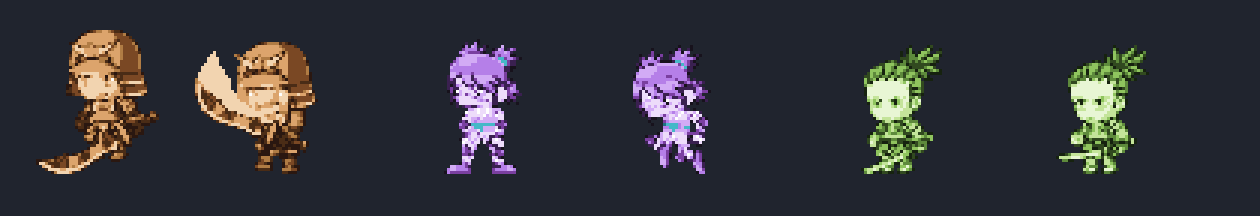
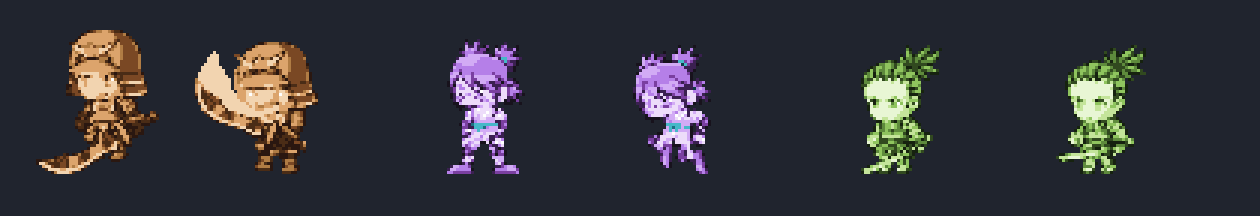
fix: corpses land on the floor and clear away quickly
ON THE GROUND. The collapse now interpolates the corpse's FEET from where it
died to the surface underneath it. The first version sank the sprite a fixed
seven pixels below the feet it had been standing on, which buries a lying body
in the ground it is supposed to be lying on -- and did nothing whatever for a
body killed in the AIR. A diving sentry or a leaping rusher cut down mid-flight
lay down in the air it happened to be occupying, which is the one place a corpse
cannot be. It now settles onto whatever is below it: the alley floor, a cover
block, an upper walkway. Over a pit there is no answer, so it keeps falling and
drops out of sight rather than pretending to land on nothing.

THE DEATH FRAME WAS WRONG, and aspect ratio says so without opening the file: a
body on the ground is WIDE and SHORT. The death animations are full ten-frame
sequences and their content aspect reports exactly where the body lands --
SamuraiHeavy 0.90 -> 0.58 -> 1.61, SamuraiLight 0.75 -> 0.66 -> 1.74, Ninja Girl
0.59 -> 1.51 and then settles. The first pass used frame 6 for both samurai,
which is 0.79 and 1.12: barely tipped over, so the corpse read as standing up.
Picked by measurement now, like the walk phases.

AND IT CLEARS AWAY. 0.58s/0.46s down to 0.40s/0.30s, with the fade starting at
55% of the window instead of 66%. A corpse that lingers is a prop, and this
alley is meant to be moved through.

The landing dust moved with it: spawned at the surface the body came to rest on,
[…]

diff --git a/frontend/index.html b/frontend/index.html
@@ -369,8 +369,9 @@ const IMPACT_TIME = 2 / 60;
 
    A blade takes longer to go down than a thrown star does, because the blow is
    heavier and the cut has to be read. */
-const CORPSE_BLADE = 0.58, CORPSE_SHURIKEN = 0.46;
-const CORPSE_LAND = 0.42;        // fraction of the window spent falling
+const CORPSE_BLADE = 0.40, CORPSE_SHURIKEN = 0.30;
+const CORPSE_LAND = 0.55;        // fraction of the window spent falling
+const CORPSE_FADE = 0.55;        // ...and the fraction after which it goes
 const CUT_HOLD = 5 / 60;         // the cut line's bright frames
 
 const DEATH_HOLD = 0.12, DEATH_FADE = 0.33, DEATH_TIME = 1.05;
@@ -4770,6 +4771,22 @@ function vaultAirborne(e) {
    which is the difference between debris and confetti. Absent, it falls back to
    "away from the player", which is right for anything that kills without
    having a direction of its own. */
+/* THE SURFACE A CORPSE COMES TO REST ON.
+   First solid row at or below the feet, in the body's own column. A body killed
+   standing is already on it; a body killed in the AIR -- a diving sentry, a
+   leaping rusher, anything mid-vault -- was left hanging wherever it happened
+   to be when it died, which is the one place a corpse cannot be.
+
+   Over a pit there is no answer, and the caller keeps the kill position so the
+   body drops out of sight instead of pretending to land on nothing. */
+function groundUnder(e) {
+  const tx = Math.max(0, Math.min(COLS - 1, Math.floor((e.x + e.w / 2) / TILE)));
+  for (let r = Math.floor((e.y + e.h) / TILE); r < ROWS; r++) {
+    if (solidAt(tx, r)) return r * TILE;
+  }
+  return null;
+}
+
 function killEnemy(e, silent, dirHint) {
   const blade = !!silent;
   const dir = dirHint ? (dirHint > 0 ? 1 : -1)
@@ -4782,6 +4799,11 @@ function killEnemy(e, silent, dirHint) {
   e.killDir = dir;
   e.killCut = blade ? CUT_HOLD : 0;
   e.dust = false;
+  // Where it died, and where it ends up. The collapse interpolates between
+  // them, so a body killed in mid-air falls to the floor rather than lying
+  // down in the air it was occupying.
+  e.killFeet = e.y + e.h;
+  e.restFeet = groundUnder(e);
   kills++;
   score += SCORE_KILL;
 
@@ -5687,7 +5709,11 @@ function update(dt) {
          different world depending on whether anyone was looking. */
       if (!e.dust && e.dyingMax && e.dying <= e.dyingMax * (1 - CORPSE_LAND)) {
         e.dust = true;
-        spawnBurst(e.x + e.w / 2, e.y + e.h - 1, 5,
+        // At the surface it came to rest on, which is not where it died if it
+        // died in the air.
+        const dy = (e.restFeet === null || e.restFeet === undefined)
+          ? e.y + e.h : e.restFeet;
+        spawnBurst(e.x + e.w / 2, dy - 1, 5,
                    ["#B6AC9A", "#8E8676", "#6A6458"], 55, 0.3);
       }
       continue;
@@ -7182,13 +7208,22 @@ function drawEntities() {
       /* THE COLLAPSE. `p` runs 0 to 1 across the dying window; the body falls
          over the first CORPSE_LAND of it and then lies there fading.
 
-         Sink and slide are eased differently on purpose: the fall decelerates
-         (it is landing) while the slide carries on at a decaying rate (it is
-         sliding). Both out of the same `fall`, which keeps them in step. */
+         IT LANDS ON THE FLOOR. The first version sank the sprite a fixed seven
+         pixels below the feet it was standing on, which buries a lying body in
+         the ground it should be lying on -- and did nothing at all for a body
+         killed in the air, which stayed at the height it died at. The fall
+         interpolates the FEET from where it died to the surface under it, and
+         drawPose bottom-aligns the frame, so the body settles onto whatever it
+         is above: the alley floor, a cover block, a walkway.
+
+         Slide and fall are eased from the same curve so they stay in step. */
       const p = 1 - e.dying / e.dyingMax;
       const fall = Math.min(1, p / CORPSE_LAND);
       const ease = 1 - (1 - fall) * (1 - fall);
-      const sink = Math.round(ease * 7);
+      const feetNow = e.restFeet === null || e.restFeet === undefined
+        ? e.killFeet                       // over a pit: it drops out of sight
+        : e.killFeet + (e.restFeet - e.killFeet) * ease;
+      const syFall = Math.round(feetNow - NINJA_ROWS * CELL_NINJA - cam.y);
       const slide = Math.round(e.killDir * ease * (e.killBlade ? 4 : 9));
       /* TWO FRAMES OF FALLING, from the pack's own death animation. One frame
          put the body flat on the ground two frames after the hit, which is a
@@ -7199,9 +7234,11 @@ function drawEntities() {
       const pose = ENEMY_POSES[e.kind][key] || ENEMY_POSES[e.kind].base;
       const pal = e.kind === "charger" ? P_CHARGER
                 : e.kind === "rusher"  ? P_RUSHER : P_WARDEN;
-      // Fades only over the last third, so the body is solid while it falls.
-      ctx.globalAlpha = p < 0.66 ? 1 : Math.max(0, (1 - p) / 0.34);
-      drawPose(pose, e.kind + "/" + key, sx0 + slide, sy0 + sink,
+      // Solid while it falls, then gone quickly: a corpse that lingers is a
+      // prop, and the alley is meant to be moved through.
+      ctx.globalAlpha = p < CORPSE_FADE
+        ? 1 : Math.max(0, (1 - p) / (1 - CORPSE_FADE));
+      drawPose(pose, e.kind + "/" + key, sx0 + slide, syFall,
                e.facing === -1, pal, CELL_NINJA);
       ctx.globalAlpha = 1;
 
@@ -7211,7 +7248,8 @@ function drawEntities() {
          quantity where the player is being told about a difference in KIND. */
       if (e.killCut > 0) {
         const k = e.killCut / CUT_HOLD;
-        const cy = Math.round(e.y + e.h * 0.42 - cam.y) + sink;
+        // Pinned to the body as it falls, not to where the body used to be.
+        const cy = Math.round(feetNow - e.h * 0.58 - cam.y);
         const x0 = Math.round(e.x - 5 - cam.x) + slide;
         const w = e.w + 10;
         const lean = Math.round(e.killDir * 5);

diff --git a/frontend/tools/pack_assets.py b/frontend/tools/pack_assets.py
@@ -516,8 +516,17 @@ CAST = [
              # Two frames of it, not one. Snapping straight to the final frame
              # put a body flat on the ground two frames after the hit, which is
              # a corpse appearing rather than a body falling.
-             "falling":  ("Dead__", 3),
-             "down":     ("Dead__", 7),
+             # CHOSEN BY ASPECT RATIO, not by eye. A body on the ground is
+             # WIDE and SHORT; a body still falling is not. The death
+             # animations run a full ten frames each and the content aspect
+             # reports exactly where the body lands:
+             #   SamuraiHeavy  0.90 .. 0.58 .. 1.61   -> down at 9
+             #   SamuraiLight  0.75 .. 0.66 .. 1.74   -> down at 8
+             #   Ninja Girl    0.59 .. 1.51 (settles) -> down at 5
+             # The first pass used frame 6 for both samurai, which is 0.79 and
+             # 1.12 -- barely tipped over -- so the corpse read as standing.
+             "falling":  ("Dead__", 2),
+             "down":     ("Dead__", 5),
          }),
     # IRONCLAD: the heavy, and the reason a fourth pack was worth 46MB.
     # It used to be gameart2d's Knight -- plumed helm, round shield,
@@ -572,8 +581,8 @@ CAST = [
              "attack": ("Attack2H", 5),
              "lunge":  ("Attack2H", 2),
              "coil":   ("Alert2H", 0),
-             "falling": ("Die", 2),
-             "down":   ("Die", 6),
+             "falling": ("Die", 5),      # aspect 0.70, mid-fall
+             "down":   ("Die", 9),        # aspect 1.61, on the ground
          }),
     # GLAIVE: the thrower. It used to share the PLAYER's body -- three packs for
     # four characters -- separated only by colour, height and the fact that
@@ -602,8 +611,8 @@ CAST = [
              "sweep": ("Attack1H", 5),
              "duck":  ("Alert1H", 3),
              "coil":  ("Attack1H", 1),
-             "falling": ("Die", 2),
-             "down":  ("Die", 6),
+             "falling": ("Die", 4),      # aspect 0.84, mid-fall
+             "down":  ("Die", 8),         # aspect 1.74, on the ground
          }),
 ]
 
